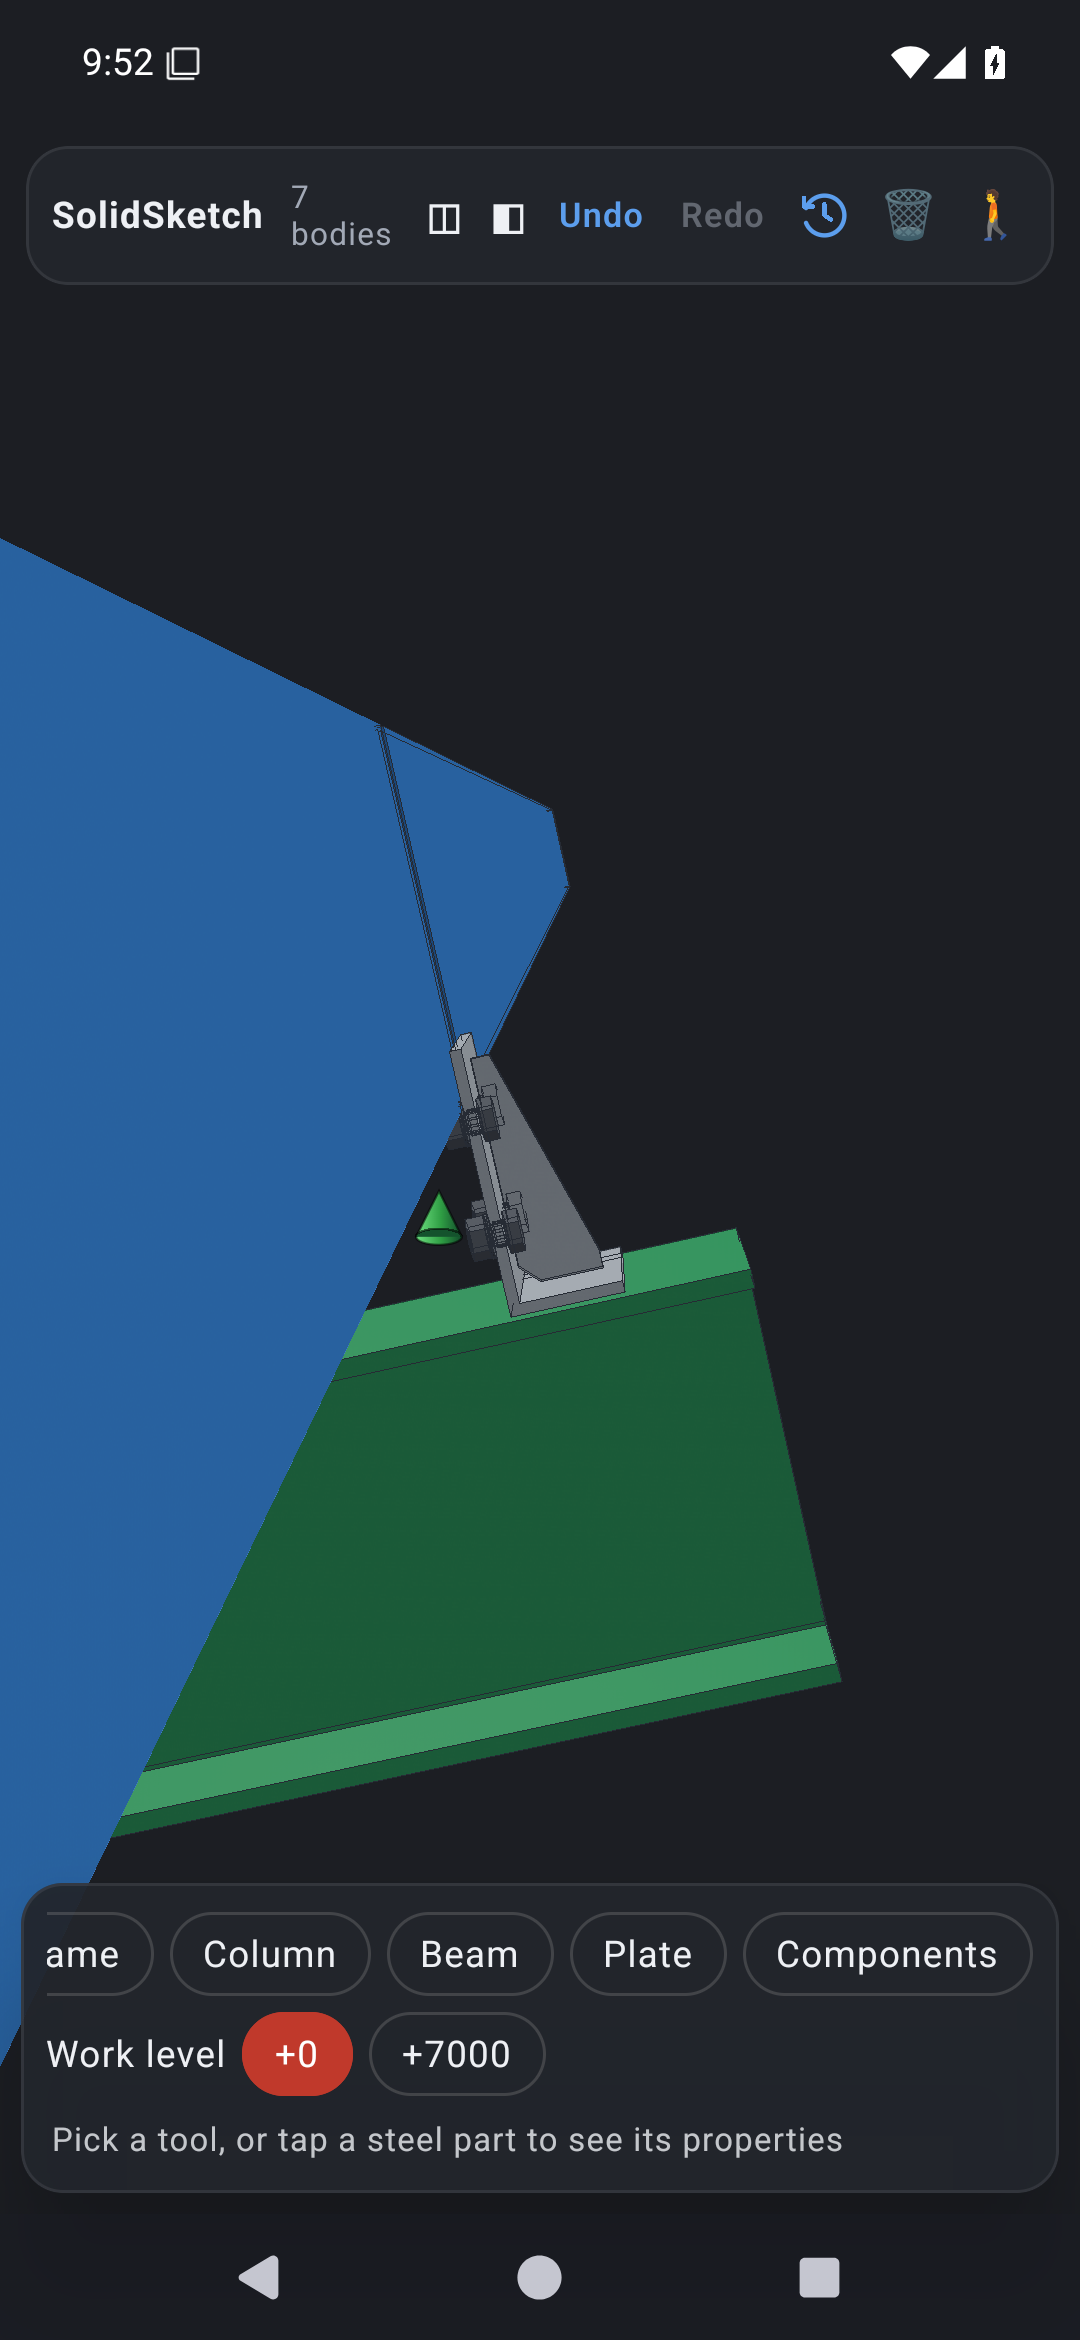
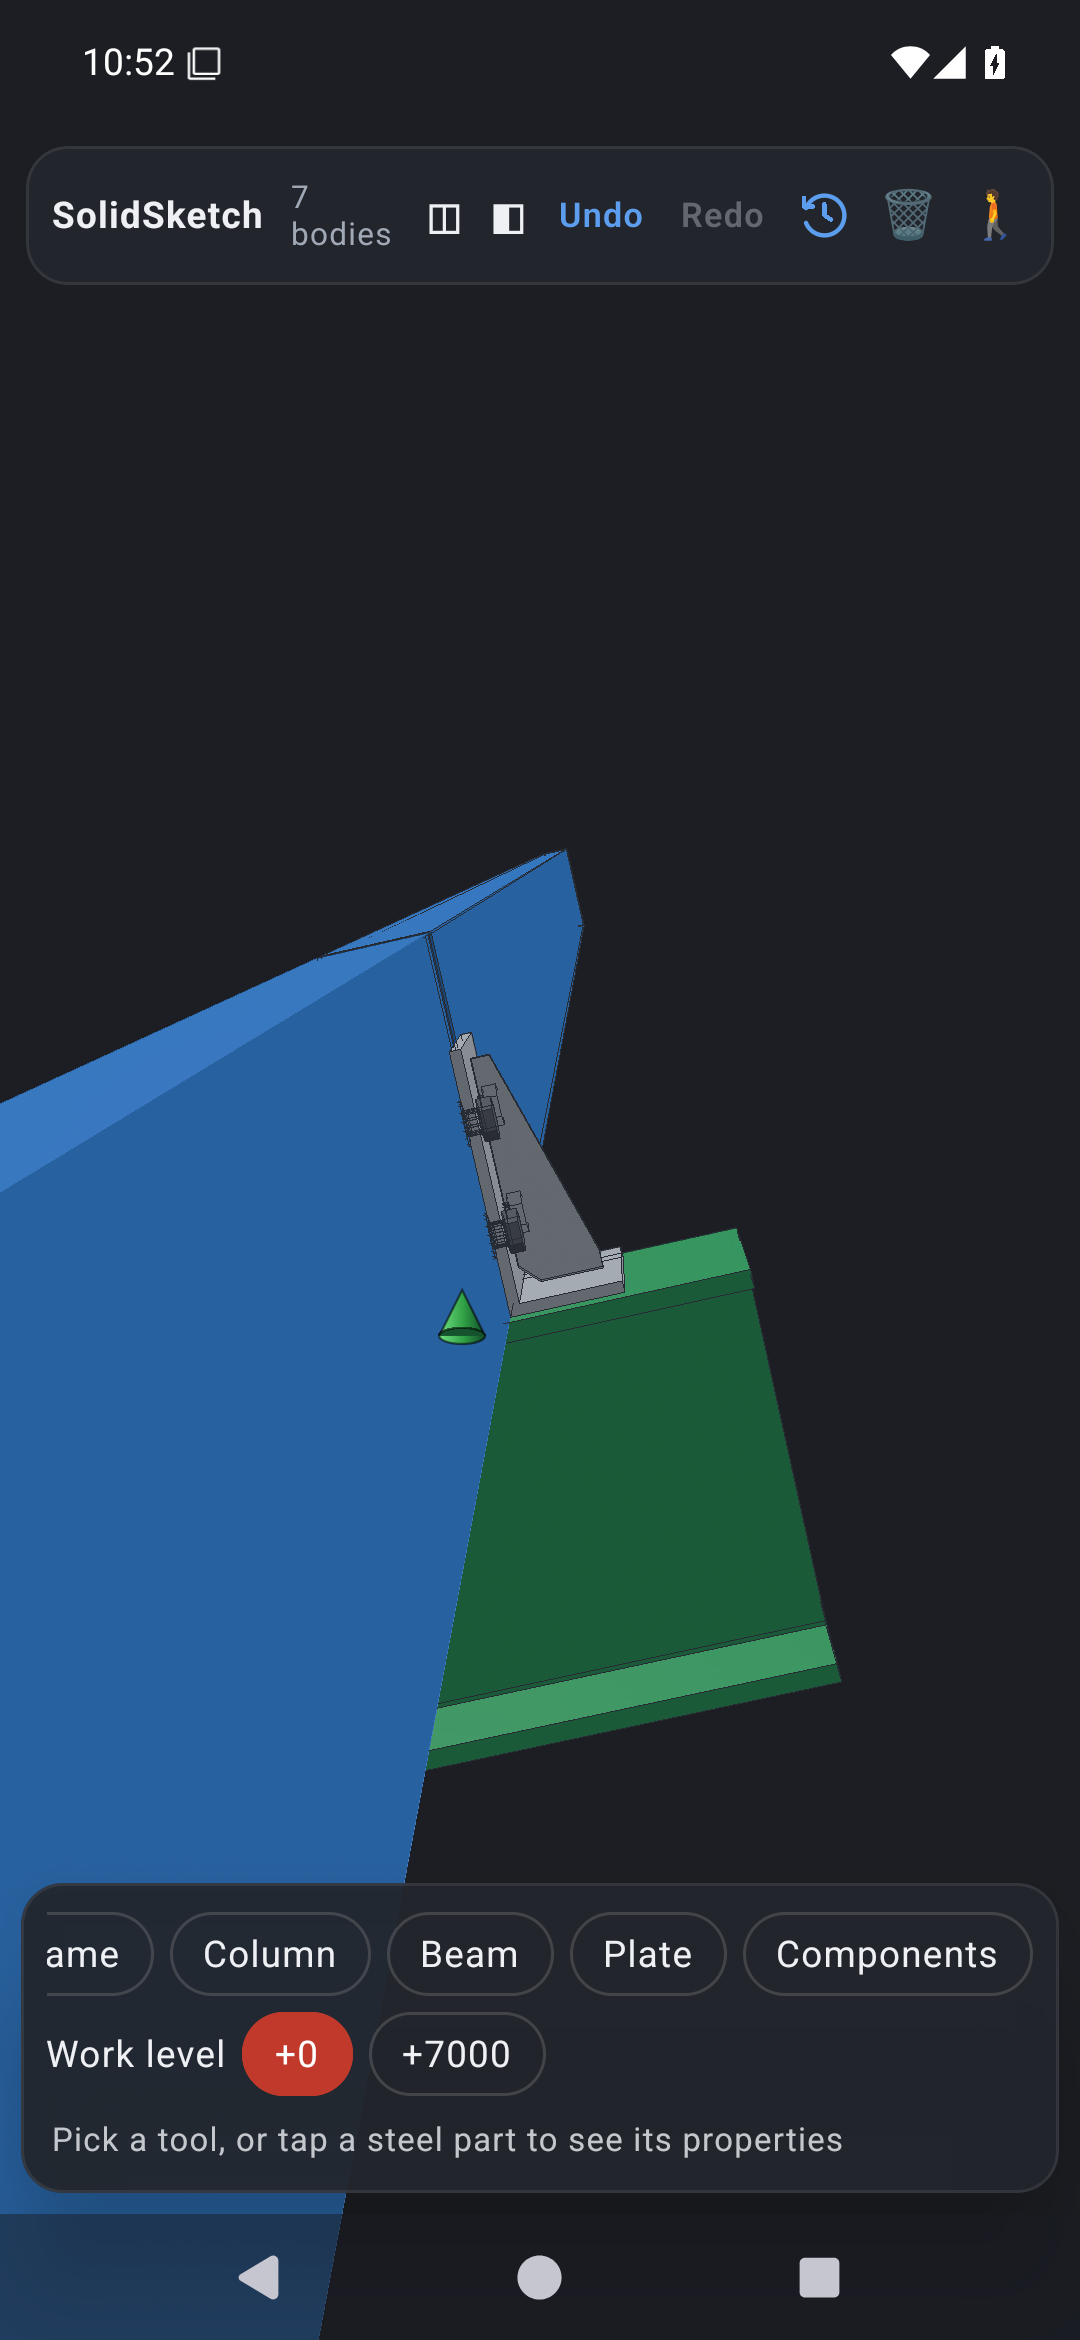
C04.png from CI 45596431672 (purlin on the rafter in the app column); PROGRESS
Claude-Session: https://claude.ai/code/session_01WuKK1kogVMvr56g7SHa75X

diff --git a/docs/steel/PROGRESS.md b/docs/steel/PROGRESS.md
@@ -6,7 +6,7 @@ History: S0–S4 in `docs/steel/PROGRESS-S0-S4.md` (incl. the postponed license 
 **S10 done (owner 2026-11-24): applications, matched to v69 and to R10. Stopped before S11.** Steps: S10.1 golden harness ✓, S10.2 v69's own connection types ✓, S10.3 portal frame ✓, S10.4 stairs / railing / GEN ✓, S10.5 laps / sleeves / brace hardware / stub splices option cases ✓, S10.6 R10 vs v69 vs app ✓, S10.7 UI, emulator steps, UI golden, APK. Previous: S9b done (0.9.4-s9b from the CI, phone check below).
 
 ## C04 follow-up (2026-11-25, owner): purlin above the cleat in the app column = test-case input
-- Cause: the recording / dialog cases took the RAFTER set's depth Behind (rafter 110 mm lower than R11). Gap measured: recording +110.00 mm without and with C04; R11 inputs 0.00 / 0.00; R11 file 0.00 (`C04MemberGapTest`, `docs/steel/parity/C04_gap.png`). The cases were fixed (R11 position fields). New member body golden `R11MemberBodyTest`: 264 / 264 joints (purlin boxes, rafter top, purlin underside, 0.1 mm). All 112 unit tests pass.
+- Cause: the recording / dialog cases took the RAFTER set's depth Behind (rafter 110 mm lower than R11). Gap measured: recording +110.00 mm without and with C04; R11 inputs 0.00 / 0.00; R11 file 0.00 (`C04MemberGapTest`, `docs/steel/parity/C04_gap.png`). The cases were fixed (R11 position fields). New member body golden `R11MemberBodyTest`: 264 / 264 joints (purlin boxes, rafter top, purlin underside, 0.1 mm). All 112 unit tests pass. **CI run 45596431672 (commit d36f0e8): green**: 17 emulator steps, the recording and the R11 views; the app column of C04.png now shows the purlin on the rafter. 26 Actions minutes. C04.png, the recording, the HTML, the APK and R11.ss were resent. C04 stays unmarked.
 
 ## R11 and C04 = Tekla (2026-11-25, owner): Tekla's package proves R10 wrong at C04 and at the stairs
 - **Tekla package** merged (`tests/steel/tekla/Frame_28mx53m_Package_1.zip`: 418 drawings, 240 NC + DXF, reports, bolt list, db1; reference only, never in the APK).
